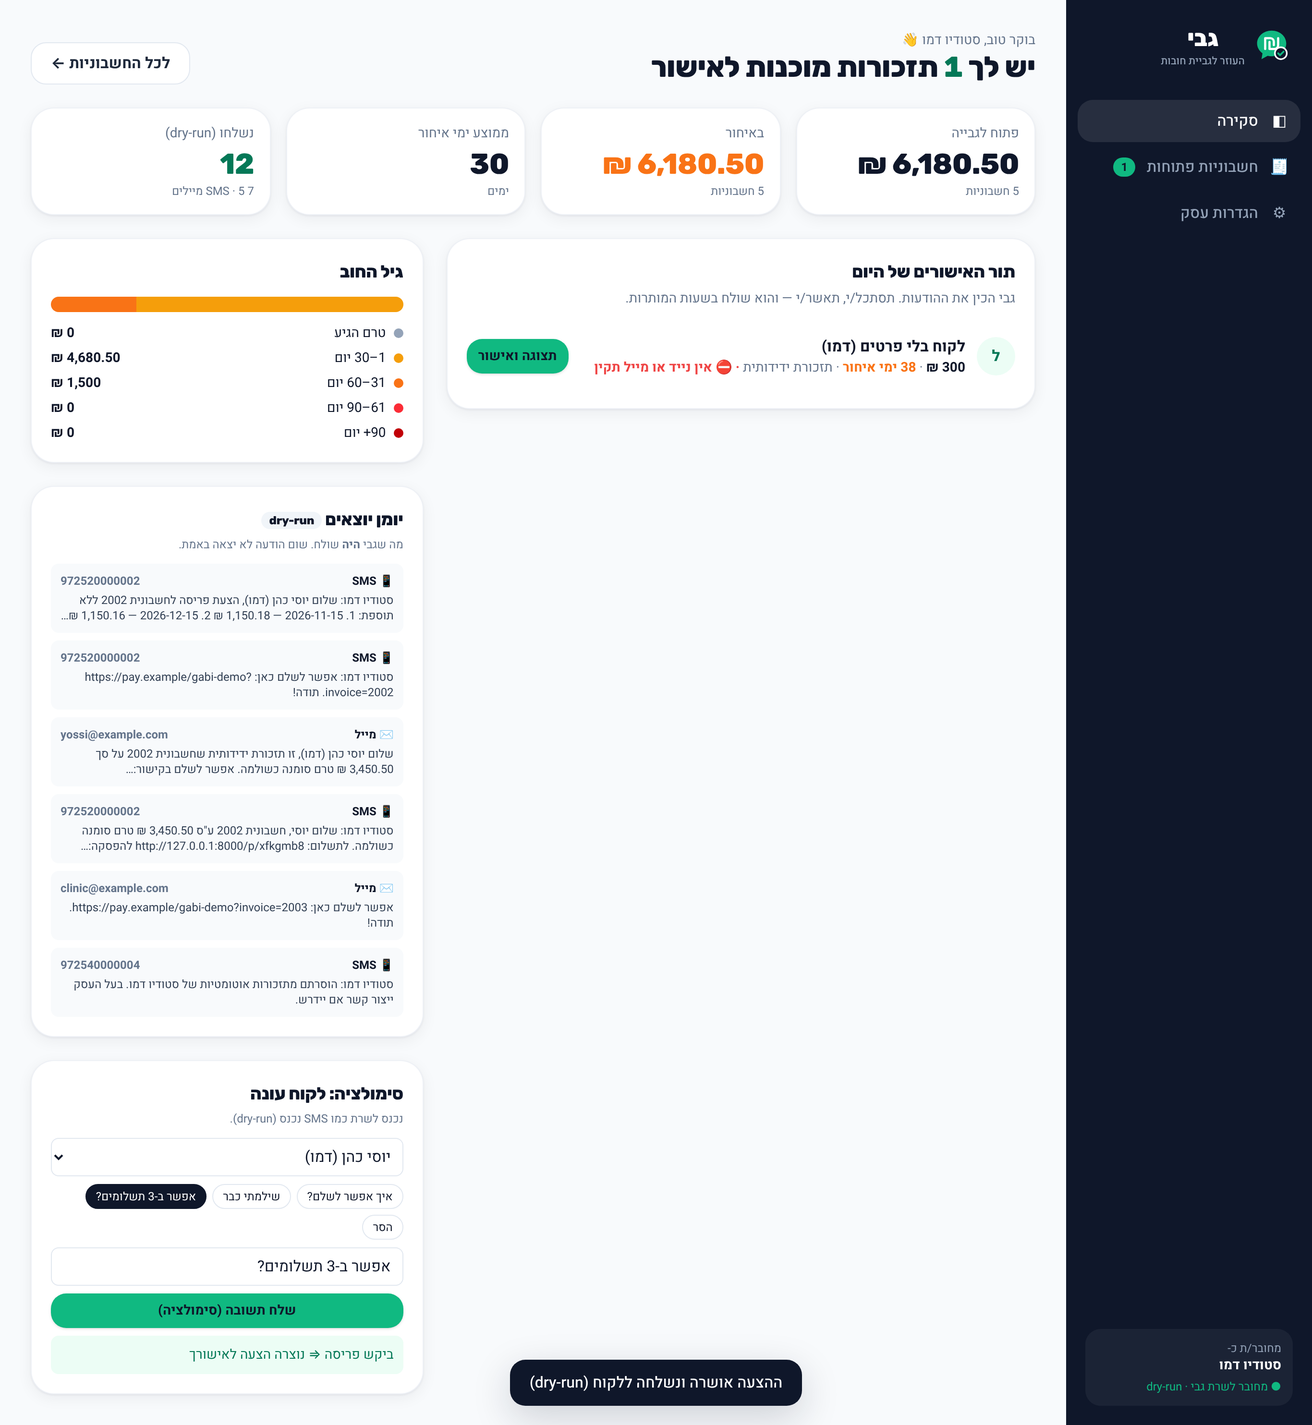
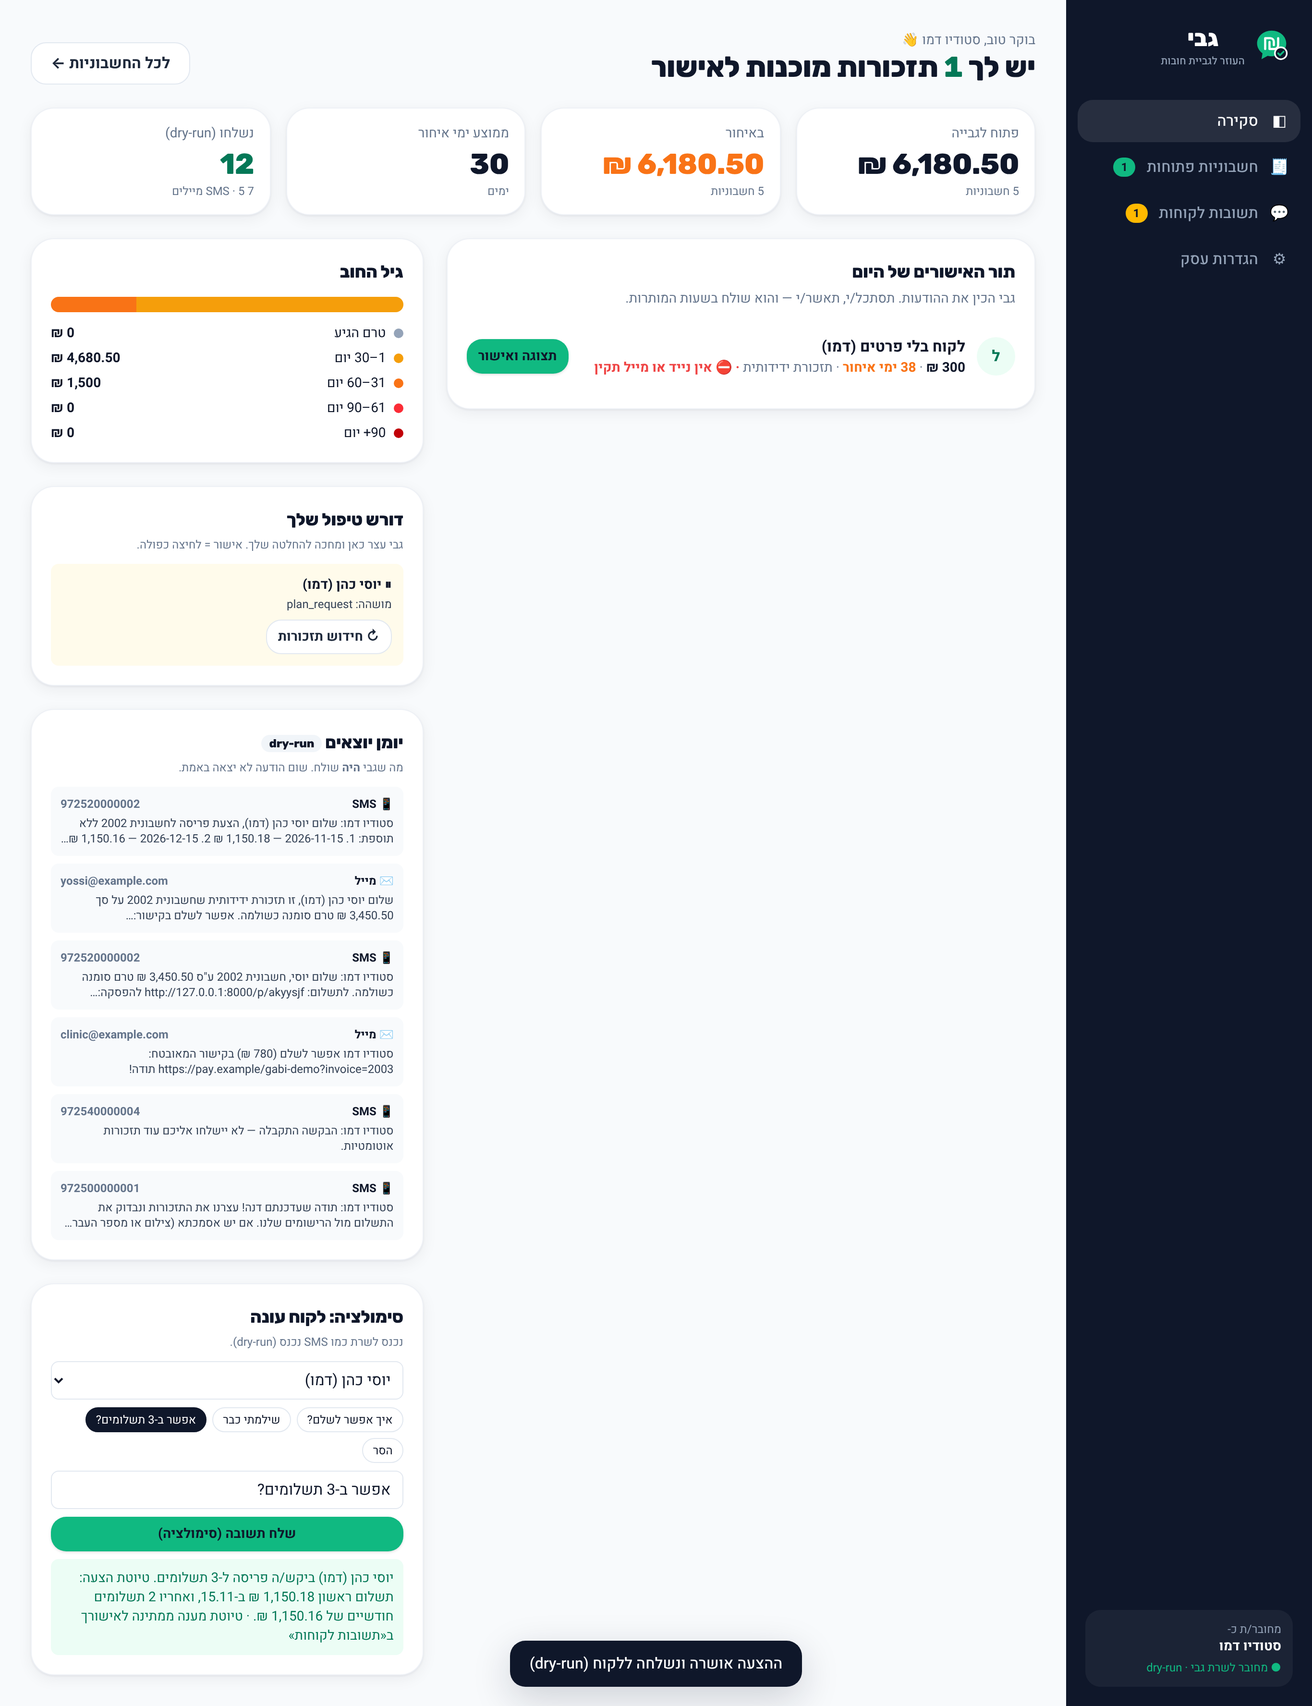
שדרוג · גבי/web: «תשובות לקוחות» — תיבת טיוטות מנוע השיחה (סיכום, פעולות, דחיפות, עריכה/אישור/סגירה, דחיית מסנן הניסוח בעברית) + e2e חי
Claude-Session: https://claude.ai/code/session_01DUoepFMyWh2GQ6Tir1EZmV

diff --git a/collect-agent/web/src/pages/Inbox.tsx b/collect-agent/web/src/pages/Inbox.tsx
@@ -1,0 +1,86 @@
+import { useState } from 'react';
+import { useApp } from '../store.tsx';
+import { api, type Draft } from '../api.ts';
+import { Button, Card } from '../components/ui.tsx';
+import { smsSegments } from '../lib/message.ts';
+import { fmtWhenIL } from '../lib/policy.ts';
+
+const INTENT: Record<string, string> = {
+  how_to_pay: 'שאל/ה איך משלמים', paid_claim: 'טוען/ת ששילם/ה', plan_request: 'מבקש/ת פריסה', opt_out: 'ביקש/ה הסרה',
+  dispute: 'מחלוקת', copy_request: 'מבקש/ת העתק חשבונית', thanks: 'תודה', unknown: 'לא ברור',
+};
+const ESC: Record<string, [string, string]> = {
+  urgent: ['דחוף', 'bg-red-50 text-red-700 ring-red-200'], normal: ['לטיפולך', 'bg-amber-50 text-amber-700 ring-amber-200'], none: ['שגרתי', 'bg-ink-100 text-ink-700 ring-ink-200'],
+};
+
+/** קודי מסנן הניסוח (app/compliance.py) ⇒ הסבר לבעל העסק. קוד לא מוכר מוצג כמו שהוא. */
+const VIOLATION: Record<string, string> = {
+  marketing: 'תוכן שיווקי (מבצע, קופון, "חדש")', discount: 'הבטחת הנחה או מחילה', enforcement: 'איום בהוצאה לפועל',
+  lawyer: 'איום בעורך דין', court: 'איום בבית משפט', warning_letter: 'מכתב התראה', seizure: 'איום בעיקול', police: 'משטרה',
+  credit: 'איום בדירוג אשראי', third_party: 'פנייה לצד שלישי', shaming: 'ביוש', fees: 'הוצאות גבייה', threat: 'איום',
+  judgmental: 'ניסוח שיפוטי', pressure: 'לחץ', debt_word: 'המילה "חוב"', foreign_link: 'קישור לא מאושר',
+  no_business_first: 'ההודעה חייבת להתחיל בשם העסק', sms_too_long: 'ה-SMS ארוך מדי',
+};
+export const explainViolation = (msg: string) =>
+  msg.replace(/\b[a-z_]{4,}\b/g, code => VIOLATION[code] ? `${VIOLATION[code]}` : code);
+
+/** "תשובות לקוחות": כל תשובת חייב ⇒ סיכום לבעל העסק + טיוטת מענה. שום דבר לא נשלח בלי אישור. */
+export function Inbox() {
+  const { mode, drafts } = useApp();
+  return (
+    <div className="space-y-5 max-w-3xl">
+      <div>
+        <h1 className="text-3xl font-extrabold">תשובות לקוחות</h1>
+        <p className="text-ink-500 mt-1">גבי קורא כל תשובה, מסכם לך ומכין מענה. אתה מאשר, עורך או סוגר — שום דבר לא יוצא בלי אישור.</p>
+      </div>
+      {mode !== 'live' ? (
+        <Card className="p-8 text-center text-ink-500">התיבה זמינה בחיבור לשרת גבי (<span className="num">./demo.sh</span> ⇒ /app/).</Card>
+      ) : drafts.length === 0 ? (
+        <Card className="p-8 text-center text-ink-500" >אין תשובות שמחכות לך ✨ — אפשר לנסות את «סימולציה: לקוח עונה» בסקירה.</Card>
+      ) : (
+        <ul className="space-y-4" data-testid="drafts">{drafts.map(d => <DraftCard key={d.id} d={d} />)}</ul>
+      )}
+    </div>
+  );
+}
+
+function DraftCard({ d }: { d: Draft }) {
+  const { reload, showToast } = useApp();
+  const [body, setBody] = useState(d.body ?? '');
+  const [busy, setBusy] = useState(false);
+  const [err, setErr] = useState<string | null>(null);
+  const [esc, cls] = ESC[d.escalate] ?? ESC.none;
+  const needsWrite = d.status === 'needs_owner';
+  const seg = smsSegments(body);
+  const run = async (fn: () => Promise<unknown>, ok: string) => {
+    setBusy(true); setErr(null);
+    try { await fn(); await reload(); showToast(ok); } catch (e) { setErr(explainViolation((e as Error).message)); setBusy(false); }
+  };
+  return (
+    <li>
+      <Card className="p-5">
+        <div className="flex flex-wrap items-center gap-2">
+          <span className={`rounded-full px-2.5 py-0.5 text-xs font-bold ring-1 ring-inset ${cls}`}>{esc}</span>
+          <b className="text-lg">{d.customer}</b>
+          <span className="text-sm text-ink-500">· {INTENT[d.intent] ?? d.intent} · {d.channel === 'sms' ? '📱 SMS' : '✉ מייל'}</span>
+          <span className="ms-auto text-xs text-ink-500">{fmtWhenIL(d.created_at)}</span>
+        </div>
+        <p className="mt-3 font-medium">{d.owner_summary}</p>
+        {d.owner_actions.length > 0 && (
+          <ul className="mt-2 space-y-1 text-sm text-ink-700">{d.owner_actions.map(a => <li key={a}>☐ {a}</li>)}</ul>
+        )}
+        <label className="block mt-4">
+          <span className="text-sm font-bold">{needsWrite ? 'אין טיוטה — כתבו מענה (או סגרו את הכרטיס)' : 'טיוטת המענה של גבי (אפשר לערוך)'}</span>
+          <textarea value={body} onChange={e => setBody(e.target.value)} rows={3} aria-label={`מענה ל${d.customer}`}
+            className="mt-1 w-full rounded-xl border border-ink-200 p-3 text-sm focus:border-brand focus:ring-2 focus:ring-brand/30 outline-none" />
+        </label>
+        {d.channel === 'sms' && <div className="text-xs text-ink-500"><span className="num">{seg.chars}</span> תווים · <span className="num">{seg.segments}</span> מקטעי SMS · נוסח שנערך עובר את מסנן הניסוח (בלי שיווק/איומים)</div>}
+        {err && <p className="mt-2 text-sm text-critical font-bold" role="alert">לא נשלח: {err}</p>}
+        <div className="mt-4 flex flex-wrap gap-2 justify-end">
+          <Button variant="ghost" disabled={busy} onClick={() => run(() => api.rejectDraft(d.id), 'הכרטיס נסגר בלי מענה')}>✗ סגירה בלי מענה</Button>
+          <Button disabled={busy || !body.trim()} onClick={() => run(() => api.approveDraft(d.id, body === d.body ? undefined : body), '✓ המענה אושר ונשלח (dry-run)')}>✓ אשר ושלח</Button>
+        </div>
+      </Card>
+    </li>
+  );
+}

diff --git a/collect-agent/web/src/store.tsx b/collect-agent/web/src/store.tsx
@@ -4,7 +4,7 @@ import { createContext, useCallback, useContext, useEffect, useMemo, useState, t
 import { DEMO_TODAY, demoBusiness, demoCustomers, demoInvoices } from './data/demo.ts';
 import type { Business, Channel, Customer, Invoice, Step } from './lib/domain.ts';
 import { needsReminder } from './lib/stats.ts';
-import { api, detectBackend, fromDashboard, type Dashboard, type Health, type OutMsg, type Plan } from './api.ts';
+import { api, detectBackend, fromDashboard, type Dashboard, type Health, type Draft, type OutMsg, type Plan } from './api.ts';
 
 export type Mode = 'loading' | 'live' | 'mock';
 interface Ctx {
@@ -21,6 +21,7 @@ interface Ctx {
   totals: Dashboard['totals'] | null;
   outbox: OutMsg[];
   plans: Plan[];
+  drafts: Draft[];
   customerOf: (id: string) => Customer;
   approveAndSend: (invoiceId: string, step: Step, channels: Channel[]) => Promise<void>;
   markPaid: (invoiceId: string) => void;
@@ -41,14 +42,15 @@ export function AppProvider({ children }: { children: ReactNode }) {
   const [totals, setTotals] = useState<Dashboard['totals'] | null>(null);
   const [outbox, setOutbox] = useState<OutMsg[]>([]);
   const [plans, setPlans] = useState<Plan[]>([]);
+  const [drafts, setDrafts] = useState<Draft[]>([]);
   const [toast, setToast] = useState<string | null>(null);
   const showToast = useCallback((t: string) => { setToast(t); window.setTimeout(() => setToast(null), 3600); }, []);
 
   const reload = useCallback(async () => {
-    const [d, p, o, pl] = await Promise.all([api.dashboard(), api.pending(), api.outbox(), api.plans()]);
+    const [d, p, o, pl, dr] = await Promise.all([api.dashboard(), api.pending(), api.outbox(), api.plans(), api.drafts().catch(() => [] as Draft[])]);
     const m = fromDashboard(d, p);
     setCustomers(m.customers); setInvoices(m.invoices); setPendingBy(m.pendingBy); setToday(m.today);
-    setTotals(d.totals); setOutbox(o.messages); setPlans(pl);
+    setTotals(d.totals); setOutbox(o.messages); setPlans(pl); setDrafts(dr);
     // שם העסק בחי = הקידומת של הודעות השרת ("סטודיו דמו: …") — כך הממשק לא ממציא שם
     const biz = o.messages.find(x => x.channel === 'sms')?.body.split(':')[0];
     if (biz && biz.length < 40) setBusiness(b => ({ ...b, name: biz, ownerName: biz }));
@@ -73,7 +75,7 @@ export function AppProvider({ children }: { children: ReactNode }) {
     const live = mode === 'live';
     const customerOf = (id: string) => customers.find(c => c.id === id)!;
     return {
-      mode, health, today, business, setBusiness, customers, invoices, totals, outbox, plans, reload, toast, showToast, customerOf,
+      mode, health, today, business, setBusiness, customers, invoices, totals, outbox, plans, drafts, reload, toast, showToast, customerOf,
       queue: live ? invoices.filter(i => pendingBy.has(i.id)) : needsReminder(invoices, today),
       pendingOf: id => pendingBy.get(id),
       approveAndSend: async (id, step, channels) => {
@@ -94,7 +96,7 @@ export function AppProvider({ children }: { children: ReactNode }) {
       },
       markPaid: id => { setInvoices(l => l.map(i => i.id === id ? { ...i, status: 'paid' } : i)); showToast('סומן כשולם 🎉'); },
     };
-  }, [mode, health, today, business, customers, invoices, pendingBy, totals, outbox, plans, reload, toast, showToast]);
+  }, [mode, health, today, business, customers, invoices, pendingBy, totals, outbox, plans, drafts, reload, toast, showToast]);
   return <C.Provider value={value}>{children}</C.Provider>;
 }
 export const useApp = () => {

diff --git a/collect-agent/web/src/api.ts b/collect-agent/web/src/api.ts
@@ -49,6 +49,12 @@ export interface PreviewMsg {
 }
 export interface Preview { reminder_id: number; status: string; block_reason: string | null; template_key: Step; scheduled_for: string; messages: PreviewMsg[] }
 export interface Plan { id: number; customer_id: number; invoice_id: number; status: string; installments: { n: number; due: string; amount_agorot: number }[] }
+export interface Draft {
+  id: number; customer_id: number; customer: string; channel: 'sms' | 'email'; to_addr: string; body: string;
+  intent: string; status: 'pending_approval' | 'needs_owner' | string; escalate: 'urgent' | 'normal' | 'none' | string;
+  owner_summary: string; owner_actions: string[]; plan_id: number | null; created_at: string;
+}
+export interface InboundResult { intent: string; escalate?: boolean; escalation?: string; auto_reply?: string | null; draft_id?: number | null; owner_summary?: string; owner_actions?: string[] }
 export interface OutMsg { id: string; channel: 'sms' | 'email'; to: string; body: string }
 
 export const api = {
@@ -61,8 +67,11 @@ export const api = {
   resume: (cid: number) => j<unknown>(`/customers/${cid}/resume`, { method: 'POST' }),
   plans: () => j<Plan[]>('/plans'),
   approvePlan: (pid: number) => j<{ text: string }>(`/plans/${pid}/approve`, { method: 'POST' }),
+  drafts: () => j<Draft[]>('/conversation/drafts'),
+  approveDraft: (id: number, body?: string) => j<{ status: string }>(`/conversation/drafts/${id}/approve`, { method: 'POST', body: JSON.stringify(body === undefined ? {} : { body }) }),
+  rejectDraft: (id: number) => j<unknown>(`/conversation/drafts/${id}/reject`, { method: 'POST' }),
   inbound: (channel: 'sms' | 'email', sender: string, text: string) =>
-    j<{ intent: string; escalate?: boolean; auto_reply?: string | null }>('/inbound', { method: 'POST', body: JSON.stringify({ channel, sender, text }) }),
+    j<InboundResult>('/inbound', { method: 'POST', body: JSON.stringify({ channel, sender, text }) }),
 };
 
 export const BLOCK_LABEL: Record<string, string> = {

diff --git a/collect-agent/web/src/components/Shell.tsx b/collect-agent/web/src/components/Shell.tsx
@@ -6,11 +6,12 @@ import { useApp } from '../store.tsx';
 const NAV: { r: Route; label: string; icon: string }[] = [
   { r: 'dashboard', label: 'סקירה', icon: '◧' },
   { r: 'invoices', label: 'חשבוניות פתוחות', icon: '🧾' },
+  { r: 'inbox', label: 'תשובות לקוחות', icon: '💬' },
   { r: 'settings', label: 'הגדרות עסק', icon: '⚙' },
 ];
 
 export function Shell({ route, children }: { route: Route; children: ReactNode }) {
-  const { business, queue, mode } = useApp();
+  const { business, queue, mode, drafts } = useApp();
   const pending = queue.length;
   return (
     <div className="min-h-screen md:flex">
@@ -23,6 +24,7 @@ export function Shell({ route, children }: { route: Route; children: ReactNode }
               className={`flex items-center gap-3 rounded-xl px-3 py-2.5 font-medium whitespace-nowrap ${route === n.r ? 'bg-white/10 text-white' : 'text-ink-400 hover:text-white hover:bg-white/5'}`}>
               <span aria-hidden className="w-5 text-center">{n.icon}</span>{n.label}
               {n.r === 'invoices' && pending > 0 && <span className="ms-auto bg-brand text-ink-900 text-xs font-bold rounded-full px-2 py-0.5 num">{pending}</span>}
+              {n.r === 'inbox' && drafts.length > 0 && <span className="ms-auto bg-amber-400 text-ink-900 text-xs font-bold rounded-full px-2 py-0.5 num" data-testid="inbox-count">{drafts.length}</span>}
             </a>
           ))}
         </nav>

diff --git a/collect-agent/web/src/pages/Dashboard.tsx b/collect-agent/web/src/pages/Dashboard.tsx
@@ -152,7 +152,7 @@ function ReplySim() {
         <Button size="sm" className="w-full" disabled={!c?.phone || !text.trim()} onClick={async () => {
           try {
             const r = await api.inbound('sms', c!.phone!, text);
-            setRes(`${INTENT_LABEL[r.intent] ?? r.intent}${r.auto_reply ? ` · מענה אוטומטי: "${r.auto_reply}"` : ''}`);
+            setRes(`${r.owner_summary ?? INTENT_LABEL[r.intent] ?? r.intent}${r.auto_reply ? ` · מענה אוטומטי: "${r.auto_reply}"` : ''}${r.draft_id ? ' · טיוטת מענה ממתינה לאישורך ב«תשובות לקוחות»' : ''}`);
             await reload();
           } catch (e) { showToast(`שגיאה: ${(e as Error).message}`); }
         }}>שלח תשובה (סימולציה)</Button>

diff --git a/collect-agent/web/src/App.tsx b/collect-agent/web/src/App.tsx
@@ -6,12 +6,13 @@ import { Signup } from './pages/Signup.tsx';
 import { Dashboard } from './pages/Dashboard.tsx';
 import { Invoices } from './pages/Invoices.tsx';
 import { Settings } from './pages/Settings.tsx';
+import { Inbox } from './pages/Inbox.tsx';
 
 function Routed() {
   const r = useRoute();
   const { toast } = useApp();
   const page = r === 'landing' ? <Landing /> : r === 'signup' ? <Signup /> : (
-    <Shell route={r}>{r === 'dashboard' ? <Dashboard /> : r === 'invoices' ? <Invoices /> : <Settings />}</Shell>
+    <Shell route={r}>{r === 'dashboard' ? <Dashboard /> : r === 'invoices' ? <Invoices /> : r === 'inbox' ? <Inbox /> : <Settings />}</Shell>
   );
   return (
     <>

diff --git a/collect-agent/web/src/router.ts b/collect-agent/web/src/router.ts
@@ -1,8 +1,8 @@
 import { useEffect, useState } from 'react';
-export type Route = 'landing' | 'signup' | 'dashboard' | 'invoices' | 'settings';
+export type Route = 'landing' | 'signup' | 'dashboard' | 'invoices' | 'inbox' | 'settings';
 const parse = (h: string): Route => {
   const r = h.replace(/^#\/?/, '');
-  return (['signup', 'dashboard', 'invoices', 'settings'] as Route[]).includes(r as Route) ? (r as Route) : 'landing';
+  return (['signup', 'dashboard', 'invoices', 'inbox', 'settings'] as Route[]).includes(r as Route) ? (r as Route) : 'landing';
 };
 export function useRoute(): Route {
   const [r, setR] = useState(() => parse(location.hash));

diff --git a/collect-agent/web/tests/lib.check.ts b/collect-agent/web/tests/lib.check.ts
@@ -114,3 +114,4 @@ test('שעה מהשרת מוצגת בשעון ישראל, וסכומים עם א
   assert.match(fmtIls(3450.5), /3,450\.50/);
   assert.doesNotMatch(fmtIls(1200), /\./);
 });
+

diff --git a/collect-agent/STATUS.md b/collect-agent/STATUS.md
@@ -53,7 +53,7 @@ cd collect-agent && ./demo.sh          # ואז http://127.0.0.1:8000/ui  (PORT=
 | תפקיד | הצעד הבא |
 |---|---|
 | **פיתוח** | ~~(00) לחבר את `conversation.py` ל-`service.inbound`~~ ✅ **בוצע (תפקיד ה-AI, commits `4763832`..`f500818`):** `inbound`, `_handle` (עמוד הקישור הקצר, `web`), webhook 019 ומייל נכנס עוברים ב-`app/inbox.py`; כל תשובה = טיוטה לאישור (`/conversation/drafts`). אין צורך להמשיך את המשימה הנעולה — `assistant.py` מיותר ואפשר למחוק (יחד עם הבדיקות שלו ב-`test_units`). (0) לאחד את `app/channels.py` עם `app/integrations/`. ~~(1) SMS ≤2~~ ✅ · ~~(2) מספר תשלומים~~ ✅ · ~~(3) חידוש~~ ✅ · ~~(4) מייל נכנס~~ ✅ — ראו סבב 3 למעלה. **מסנן הניסוח (`compliance.py`) כבר רץ על כל SMS יוצא בשירות** · **+2 פערים נסגרו בבדיקה מול ההתנהגות** (מספר שגוי חזר בסנכרון; `release_expired_pauses` לא נקרא) — ראו סבב 3 |
-| **עיצוב (web/)** | ✅ מחובר לשרת (`/app/`) · ✅ «דורש טיפול שלך»: חידוש לקוח מושהה + אישור הצעות פריסה (חי, e2e). הבא: תיבת בעל העסק (`/owner/inbox`) והגדרות חיות (צריך API) |
+| **עיצוב (web/)** | ✅ מחובר לשרת (`/app/`) · ✅ «דורש טיפול שלך» (חידוש + פריסה) · ✅ «תשובות לקוחות» מעל `/conversation/drafts` (עריכה/אישור/סגירה, דחיית מסנן בעברית). הבא: הגדרות חיות (צריך API להגדרות עסק). ⚠ לפיתוח: אישור פריסה ב-`/plans/{id}/approve` לא סוגר את טיוטת `plan_request` המקבילה ⇒ בעל העסק עלול לשלוח הצעה פעמיים |
 | **מוצר** | להכריע על הכלל «עצירה אחרי 3 תזכורות בלי מענה» (היום 4) ועל תמחור (ראו חסמים) |
 | **תשתית** | לוודא ריצה ירוקה ראשונה של ה-workflow ב-GitHub. ה-`ci.yml` של מאור מופעל על כל `pull_request`, כולל PR לענף הזה, ולכן כדאי לסנן |
 | **מחקר שוק** | ✅ **נסגר (6.11):** מחירוני SMS ציבוריים הם **2–5 אג׳ לסגמנט** (SMS4Free, TextMe, Vibrate, סקירות), כלומר תזכורת של 3 סגמנטים עולה 6–15 אג׳. ההנחה הקודמת הייתה ₪0.20–0.30. 019 ו-InforU לא מפרסמים מחיר. התמחור יושר להחלטת המנהל (₪119 + 14 יום, 300 תזכורות כלולות) ב-`team/market.md` §4. **נשאר:** מחיר מספר וירטואלי ל-2-way (לא פורסם אצל אף ספק; הצעה = מאיר) |
